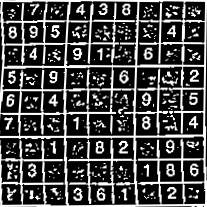
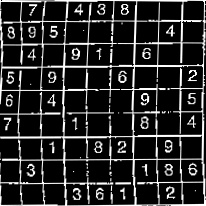
Adjusted thresholding and blur

diff --git a/sudoku.py b/sudoku.py
@@ -23,12 +23,12 @@ def main():
 
 	grid = create_grid(image)
 
-	#image=extract_digit(image,grid[1])
+	# image=extract_digit(image,grid[3])
 	# n_white_pix = np.sum(image == 255)
 	# print("Number of white pixels:", n_white_pix)
 
 	#save image
-	cv2.imwrite('test.jpg', image)
+	#cv2.imwrite('test.jpg', image)
 
 
 	image = cv2.resize(image, (222*SCALE, 225*SCALE)) 

diff --git a/preprocess.py b/preprocess.py
@@ -17,7 +17,7 @@ def pre_process_image(image: np.ndarray) -> np.ndarray:
         cv2.ADAPTIVE_THRESH_GAUSSIAN_C,
         cv2.THRESH_BINARY,
         11,
-        2)
+        15)
 
     image = cv2.bitwise_not(image, image)
     return image

diff --git a/README.md b/README.md
@@ -4,7 +4,7 @@
 
 This program extracts, proceses and solves Sudoku images taken from local newspapers in London. Here we use a colectiong of image preprocese before applying a training convolutional neural network (CNN) to extract the digits from the individual cells. The CNN was training on the MNIST dataset on handwritten digits.
 
-![Example](https://github.com/deanhoperobertson/Sudoku-Solver/blob/main/Images/Easy.jpg?raw=true) ![Example](https://github.com/deanhoperobertson/Sudoku-Solver/blob/main/Images/Processed_image.jpg?raw=true)
+![Example](https://github.com/deanhoperobertson/Sudoku-Solver/blob/main/Images/Easy.jpg?raw=true) ![Example](https://github.com/deanhoperobertson/Sudoku-Solver/blob/main/Images/Processed_Image.jpg?raw=true)
 
 ## How to Run
 ```    
